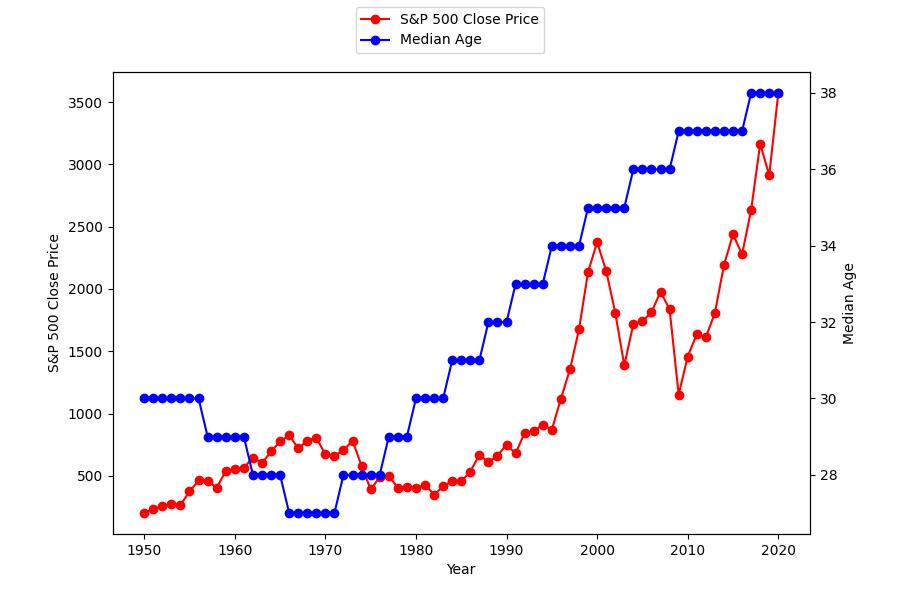
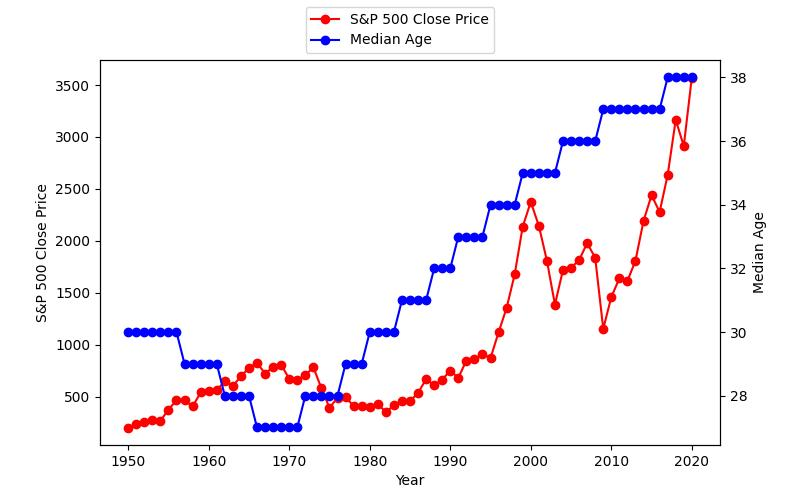
Shrink line chart

diff --git a/analyze_data/stock_price_median_age_line_chart.py b/analyze_data/stock_price_median_age_line_chart.py
@@ -35,7 +35,7 @@ def plot_data(data):
 
     # Modify figure settings.
     fig.legend(loc='upper center')
-    fig.set_size_inches(9, 6)
+    fig.set_size_inches(8, 5)
 
     # Save the plot as a file.
     fig.savefig('analyze_data/stock_price_median_age_line_chart.jpg',
